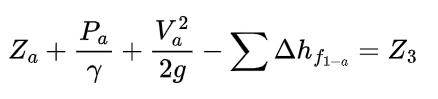
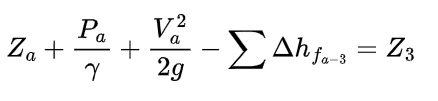
Actualización de los módulos de clase2

Changed region(s): [[0.0, 0.1212, 0.5046, 0.8485], [0.5046, 0.2727, 0.9498, 0.7273], [0.1781, 0.6061, 0.2374, 0.8485]]

diff --git a/ModulosClases/ModuloNo.1/Taller_aplicacion_unidades_anteriores.md b/ModulosClases/ModuloNo.1/Taller_aplicacion_unidades_anteriores.md
@@ -306,13 +306,24 @@ Este ejercicio también se encuentra resuelto en código de Wolfram Mathematica,
 
 Un sistema de tuberías abiertas con flujo a presión está conformado por dos tanques que alimentan un tercero, tal como se observa en la siguiente gráfica. Si se conocen los niveles de agua en los tanques y la cota del nodo, determine los caudales que circulan por las tres tuberías y la presión en el nodo. Asuma que no existe pérdidas por accesorios. Tenga en cuenta las pérdidas por fricción en cada tubería. 
 
+
+
+<div align="center">
+  <img src="Imagenes/FiguraNo.1.36.PNG" width="400px">
+</div>
+
 Las características de las tuberías son las siguientes:
 
+
+<div align="center">
+ 
 | Tramo | Diámetro (m) | Longitud (m) |   F   |
 |-------|:-------------|--------------|:-----:|
 | L_1-a | 0.40         | 1500         | 0.015 |
 | L_2-a | 0.60         | 1600         | 0.017 |
 | L_a-3 | 0.80         | 2500         | 0.013 |
+
+</div>
 
 ### Solución Problema 1F
 
@@ -329,8 +340,23 @@ Para resolver este sistema se debe plantear la ley de conservación de la masa y
 </div>
 
 <div align="center">
-  <img src="ecuaciones/Ecuacion49.PNG" width="200px">
+  <img src="ecuaciones/Ecuacion49.PNG" width="300px">
 </div>
+
+<div align="center">
+  <img src="ecuaciones/Ecuacion50.PNG" width="130px">
+</div>
+
+Solucionando el sistema de ecuaciones, se tiene que:
+
+
+<div align="center">
+$Q_1=$ <br>
+$Q_2=$ <br>
+$Q_3=$ <br>
+$P_a=$ <br>
+</div>
+
 
 
 ### Control de versiones

diff --git a/ModulosClases/ModuloNo.1/ecuaciones/Ecuaciones.md b/ModulosClases/ModuloNo.1/ecuaciones/Ecuaciones.md
@@ -184,5 +184,9 @@ $Z_1-\sum_{}^{}\Delta h_{f_{1-a}}=\frac{V^{2}_a}{2g}+Z_a+\frac{P_a}{\gamma}$
 </div>
 
 <div align="center"> 
-$Z_a+\frac{P_a}{\gamma}+\frac{V^{2}_a}{2g}-\sum_{}^{}\Delta h_{f_{1-a}}=Z_3$
+$Z_a+\frac{P_a}{\gamma}+\frac{V^{2}_a}{2g}-\sum_{}^{}\Delta h_{f_{a-3}}=Z_3$
+</div>
+
+<div align="center"> 
+$\sum_{i=1}^{n}Q_i=0$
 </div>
